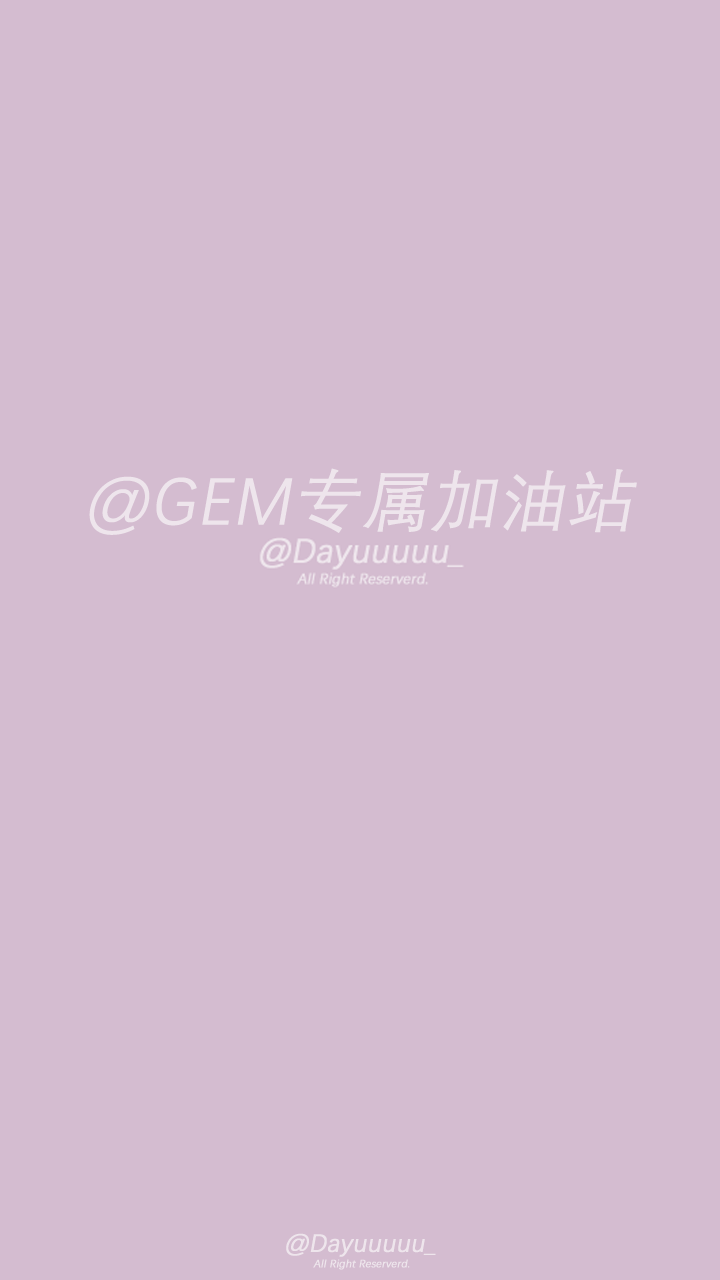
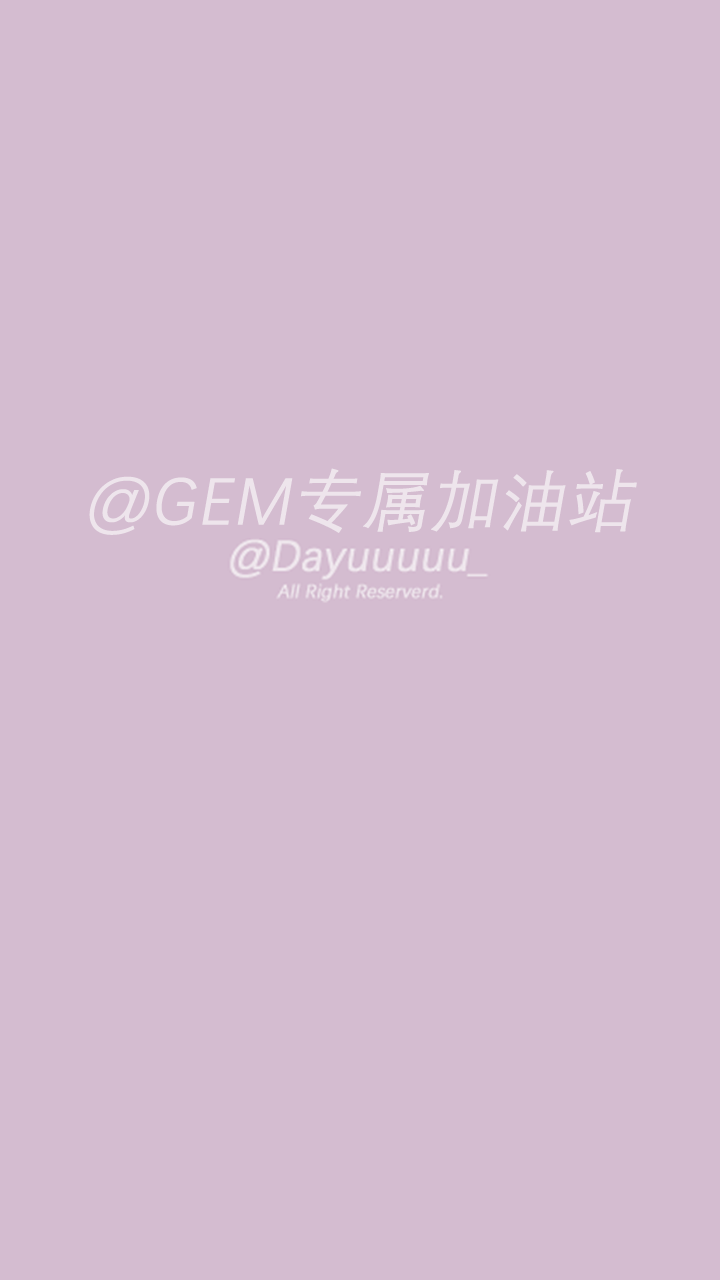
V2.2 Update

Changed region(s): [[0.3056, 0.4062, 0.6111, 0.4688], [0.3972, 0.9688, 0.5806, 1.0], [0.6111, 0.4062, 0.6417, 0.4375]]

diff --git a/src/project.js b/src/project.js
@@ -987,9 +987,9 @@ window.__require = function e(t, n, o) {
                         scale: .9
                     }).union().repeatForever().start()
                 }, t.prototype.update = function(e) {}, t.prototype.adsButtonFunc2 = function() {
-                    window.location.href = "https://www.qwas.top"
+                    window.location.href = "ad"
                 }, t.prototype.bannerButtonFunc = function() {
-                    window.location.href = "https://www.qwas.top"
+                    window.location.href = "ad"
                 }, t.prototype.ShowFailedUi = function(e, t) {
                     var n = this;
                     this.scheduleOnce(function() {
@@ -1007,7 +1007,7 @@ window.__require = function e(t, n, o) {
                     this.canClick && 0 == cc.find("Canvas/uiEffectPanel").childrenCount && a.default.Instance.RestartGame()
                 }, t.prototype.OnClickMoreGame = function() {
                     this.canClick && (this.moreGameBtn.off(cc.Node.EventType.TOUCH_START, this.OnClickMoreGame, this), this.canClick = !1, this.moreGameBtn.runAction(cc.sequence(cc.scaleTo(.1, 1.1), cc.scaleTo(.1, 1))), this.scheduleOnce(function() {
-                        window.location.href = "http://dxg.qwas.top"
+                        window.location.href = "ad"
                     }, .15))
                 }, t.prototype.GetContentByScore = function(e) {
                     var t = Math.ceil(e / 1500 * 94);
@@ -1817,7 +1817,7 @@ window.__require = function e(t, n, o) {
                 cc.find("Canvas/adsLayer").active = !0, cc.find("Canvas/adsLayer").setContentSize(cc.winSize.width, cc.winSize.height)
             },
             AdsLink: function() {
-                window.location.href = "https://qwas.top"
+                window.location.href = "ad"
             },
             closeAdsLayer: function() {
                 cc.find("Canvas/adsLayer").active = !1
@@ -1906,7 +1906,7 @@ window.__require = function e(t, n, o) {
                 }, t.prototype.update = function(e) {
                     this.UpdateScoreLabel(e), this.lerpCtrl && this.lerpNumFunc(this.passlevelYQ), this.levelPanel.children[1].getComponent(cc.Label).string = s.default.Instance.GetLevel().toString()
                 }, t.prototype.adsButtonFunc = function() {
-                    window.location.href = "https://qwas.top"
+                    window.location.href = "ad"
                 }, t.prototype.TestPasslevel = function() {
                     var e = this;
                     this.lerpCtrl = !0, this.nowYQ >= this.passlevelYQ && (this.levelPanel.children[2].runAction(cc.sequence(cc.delayTime(1.3), cc.callFunc(function() {

diff --git a/ReadMe.md b/ReadMe.md
@@ -1,3 +1,8 @@
+V2.2 10:31
+1.广告链接去除
+2.更改图片位置版式
+
+
 V2.1 5:41
 护眼绿广告
 
